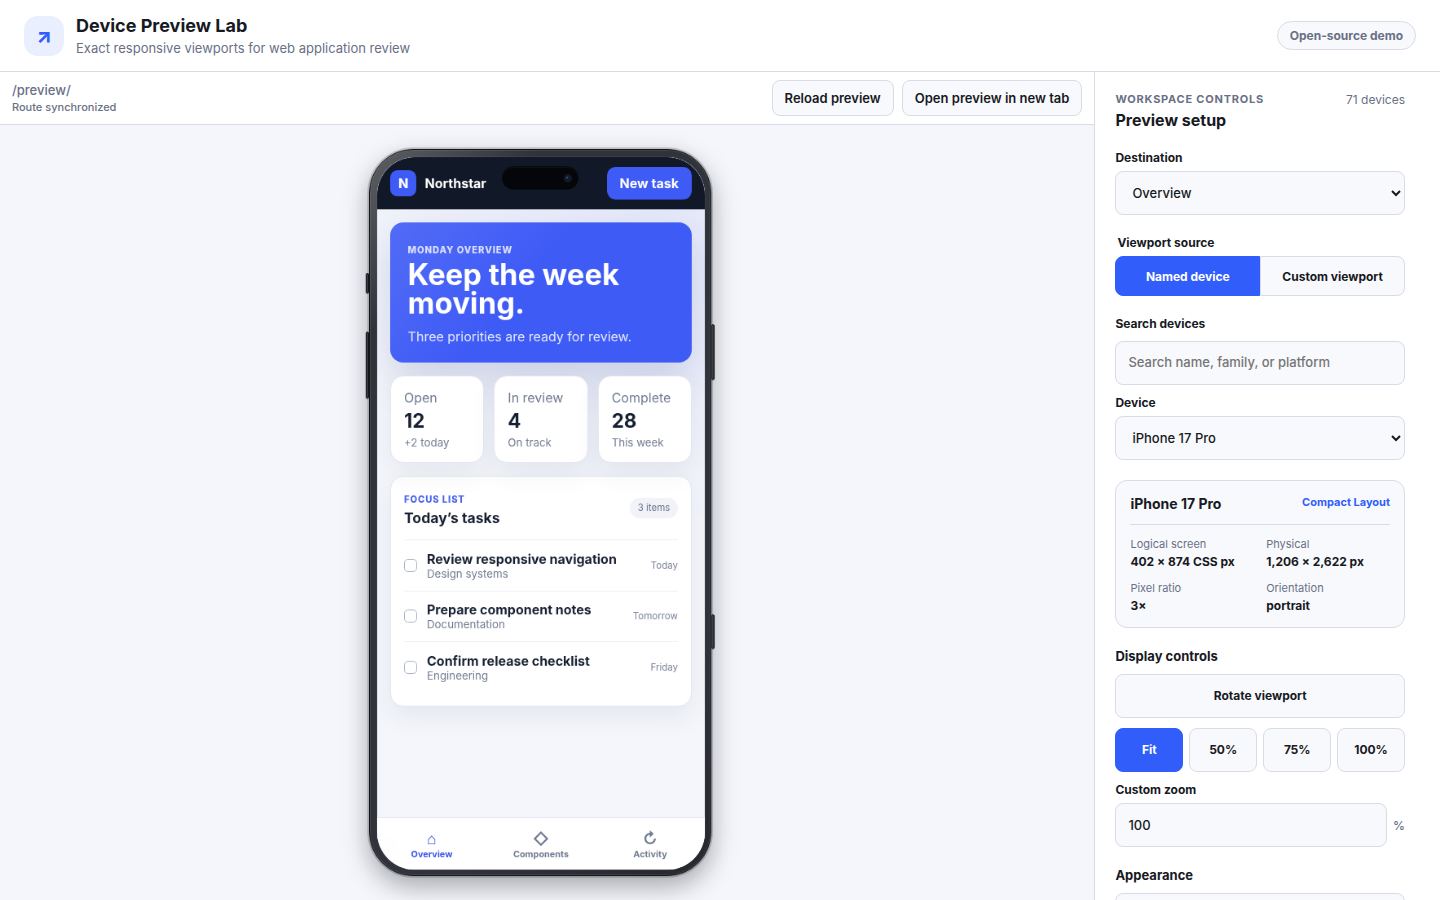
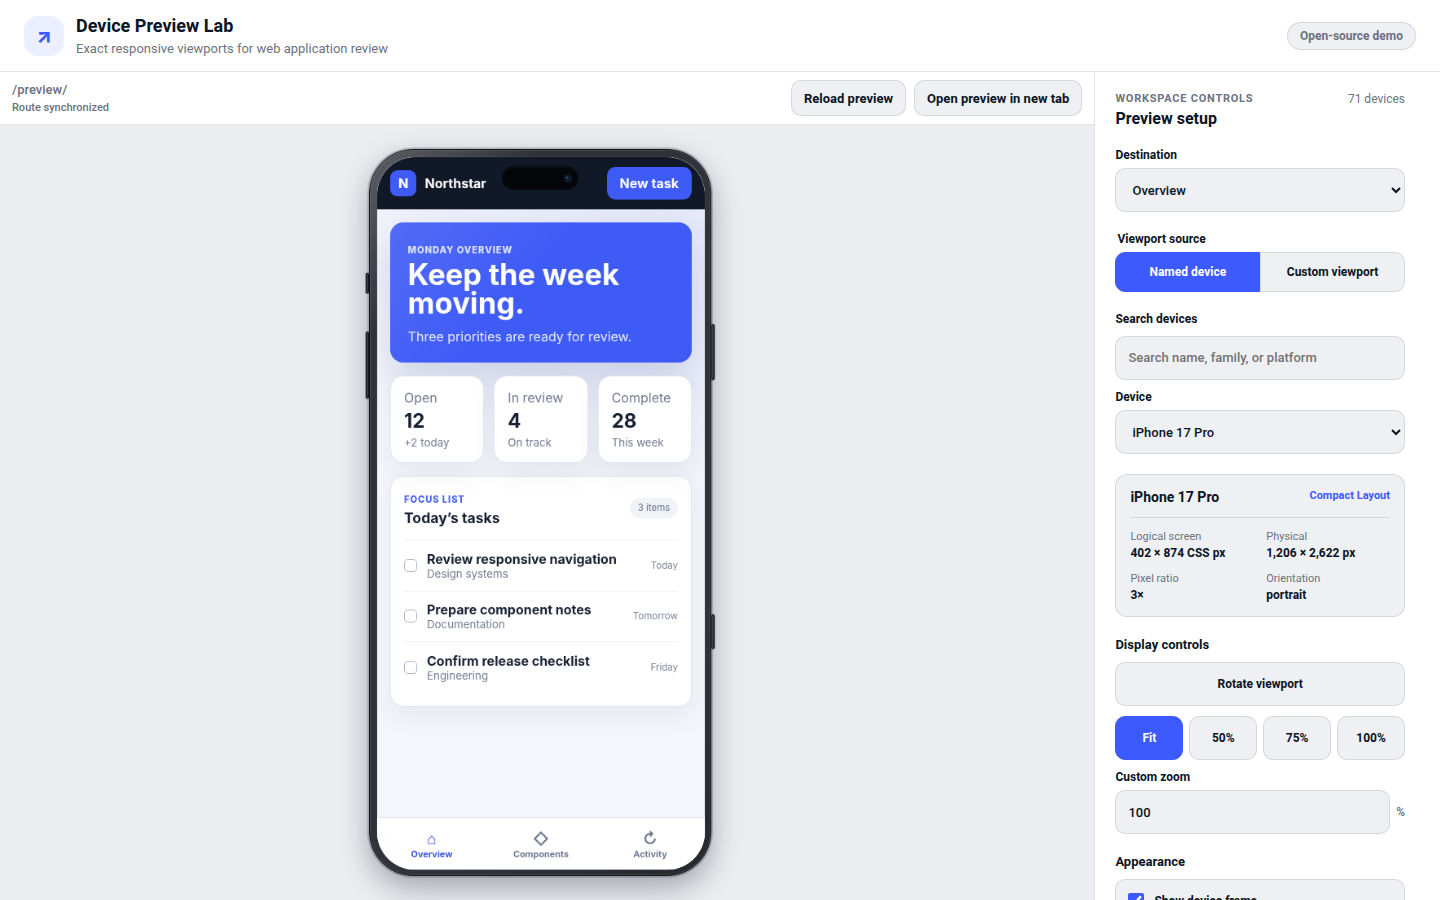
style: improve dark device frame contrast

diff --git a/src/styles/index.css b/src/styles/index.css
@@ -1,35 +1,41 @@
 :root {
   color-scheme: light dark;
-  --rdl-accent: #315efb;
+  --rdl-accent: #3d5afe;
   --rdl-accent-contrast: #ffffff;
-  --rdl-canvas: #f4f6fb;
+  --rdl-canvas: oklch(0.992 0.002 255);
+  --rdl-stage: oklch(0.946 0.004 260);
   --rdl-surface: #ffffff;
-  --rdl-surface-raised: #f8f9fc;
-  --rdl-border: #d8dce6;
-  --rdl-text: #171923;
-  --rdl-text-muted: #687086;
-  --rdl-focus: #315efb;
-  --rdl-danger: #c5353f;
-  --rdl-radius-sm: 0.5rem;
+  --rdl-surface-raised: oklch(0.955 0.005 260);
+  --rdl-border: rgb(0 0 0 / 10%);
+  --rdl-text: #0b1524;
+  --rdl-text-muted: #6b7280;
+  --rdl-focus: #0b1524;
+  --rdl-danger: #b4524b;
+  --rdl-frame-outline: rgb(11 21 36 / 20%);
+  --rdl-frame-shadow-color: rgb(16 24 40 / 34%);
+  --rdl-radius-sm: 0.625rem;
   --rdl-radius-md: 0.75rem;
   --rdl-radius-lg: 1rem;
   --rdl-font-family:
-    Inter, ui-sans-serif, system-ui, -apple-system, BlinkMacSystemFont, "Segoe UI",
-    sans-serif;
+    -apple-system, BlinkMacSystemFont, "Segoe UI", Roboto, Inter, ui-sans-serif,
+    system-ui, sans-serif;
 }
 
 [data-rdl-theme="dark"] {
   color-scheme: dark;
-  --rdl-accent: #6d8cff;
-  --rdl-accent-contrast: #07102f;
-  --rdl-canvas: #15161b;
-  --rdl-surface: #1b1d23;
-  --rdl-surface-raised: #22252d;
-  --rdl-border: #363a45;
+  --rdl-accent: #3d5afe;
+  --rdl-accent-contrast: #ffffff;
+  --rdl-canvas: oklch(0.146 0.007 280);
+  --rdl-stage: oklch(0.233 0.01 280);
+  --rdl-surface: oklch(0.175 0.008 280);
+  --rdl-surface-raised: oklch(0.204 0.009 280);
+  --rdl-border: rgb(255 255 255 / 11%);
   --rdl-text: #f4f6fb;
-  --rdl-text-muted: #a1a8ba;
-  --rdl-focus: #8ba3ff;
-  --rdl-danger: #ff7d86;
+  --rdl-text-muted: #7a8598;
+  --rdl-focus: #f4f6fb;
+  --rdl-danger: #de8b85;
+  --rdl-frame-outline: rgb(255 255 255 / 34%);
+  --rdl-frame-shadow-color: rgb(0 0 0 / 72%);
 }
 
 .rdl-preview {
@@ -121,6 +127,7 @@
   justify-content: center;
   padding: 1.5rem;
   overflow: auto;
+  background: var(--rdl-stage);
   overscroll-behavior: contain;
   scrollbar-gutter: stable;
 }
@@ -736,7 +743,7 @@
   --rdl-frame-metal: #30333a;
   --rdl-frame-metal-edge: #111217;
   --rdl-frame-highlight: rgb(255 255 255 / 22%);
-  --rdl-frame-shadow: rgb(4 6 12 / 34%);
+  --rdl-frame-shadow: var(--rdl-frame-shadow-color);
   --rdl-frame-glass: #050609;
   --rdl-frame-lens: #101b2b;
   --rdl-safe-area-color: rgb(49 94 251 / 88%);
@@ -777,8 +784,8 @@
   border-radius: var(--rdl-frame-radius);
   box-shadow:
     0 0 0 1px rgb(255 255 255 / 12%) inset,
-    0 0 0 2px rgb(0 0 0 / 18%),
-    0 12px 32px var(--rdl-frame-shadow);
+    0 0 0 2px var(--rdl-frame-outline),
+    0 14px 36px var(--rdl-frame-shadow);
 }
 
 .rdl-frame[data-rdl-frame-visible="false"] .rdl-frame__shell {
@@ -1044,7 +1051,9 @@
     var(--rdl-frame-metal);
   border: 1px solid var(--rdl-frame-metal-edge);
   border-radius: 3px;
-  box-shadow: 0 1px 1px rgb(0 0 0 / 45%);
+  box-shadow:
+    0 0 0 1px var(--rdl-frame-outline),
+    0 1px 1px rgb(0 0 0 / 45%);
 }
 
 .rdl-frame__control--mute,

diff --git a/tests/browser/demo-screenshots.spec.ts b/tests/browser/demo-screenshots.spec.ts
@@ -49,4 +49,62 @@ test.describe("@screenshots generic demo", () => {
       fullPage: true,
     });
   });
+
+  test("dark theme preserves light-theme geometry and separates the frame", async ({
+    page,
+  }) => {
+    await page.setViewportSize({ width: 1440, height: 900 });
+
+    const readThemeGeometry = async (theme: "light" | "dark") => {
+      await page.goto(`${DEMO}/?theme=${theme}&device=iphone-17-pro`);
+      const main = page.getByRole("main", { name: "Device preview lab" });
+      const stage = page.getByRole("region", { name: "Preview stage" });
+      const panel = page.getByRole("complementary", {
+        name: "Preview configuration",
+      });
+      const shell = page.locator(".rdl-frame__shell");
+
+      await expect(main).toHaveAttribute("data-rdl-theme", theme);
+      await expect(shell).toBeVisible();
+
+      return {
+        main: await main.boundingBox(),
+        stage: await stage.boundingBox(),
+        panel: await panel.boundingBox(),
+        shell: await shell.boundingBox(),
+        colors: await main.evaluate((element) => {
+          const mainStyle = getComputedStyle(element);
+          const stageElement = element.querySelector(".rdl-preview__stage");
+          const shellElement = element.querySelector(".rdl-frame__shell");
+          if (!stageElement || !shellElement) {
+            throw new Error("Expected stage and frame shell.");
+          }
+          return {
+            accent: mainStyle.getPropertyValue("--rdl-accent").trim(),
+            canvas: mainStyle.backgroundColor,
+            focus: mainStyle.getPropertyValue("--rdl-focus").trim(),
+            stage: getComputedStyle(stageElement).backgroundColor,
+            surface: mainStyle.getPropertyValue("--rdl-surface").trim(),
+            shellShadow: getComputedStyle(shellElement).boxShadow,
+          };
+        }),
+      };
+    };
+
+    const light = await readThemeGeometry("light");
+    const dark = await readThemeGeometry("dark");
+
+    expect(dark.main).toEqual(light.main);
+    expect(dark.stage).toEqual(light.stage);
+    expect(dark.panel).toEqual(light.panel);
+    expect(dark.shell).toEqual(light.shell);
+    expect(dark.colors.accent).toBe(light.colors.accent);
+    expect(light.colors.stage).not.toBe(light.colors.canvas);
+    expect(dark.colors.stage).not.toBe(dark.colors.canvas);
+    expect(dark.colors.surface).not.toBe(dark.colors.canvas);
+    expect(dark.colors.focus).not.toBe(dark.colors.accent);
+    expect(dark.colors.shellShadow).toContain(
+      "rgba(255, 255, 255, 0.34)",
+    );
+  });
 });

diff --git a/docs/theming.md b/docs/theming.md
@@ -12,6 +12,7 @@ affected:
   --rdl-accent: #6d4aff;
   --rdl-accent-contrast: #ffffff;
   --rdl-canvas: #f7f5fb;
+  --rdl-stage: #f1eef8;
   --rdl-surface: #ffffff;
   --rdl-surface-raised: #faf9fd;
   --rdl-border: #ddd8e8;
@@ -19,6 +20,8 @@ affected:
   --rdl-text-muted: #6f687d;
   --rdl-focus: #5635e7;
   --rdl-danger: #bd3348;
+  --rdl-frame-outline: rgb(33 29 43 / 20%);
+  --rdl-frame-shadow-color: rgb(33 29 43 / 32%);
   --rdl-radius-sm: 0.5rem;
   --rdl-radius-md: 0.75rem;
   --rdl-radius-lg: 1rem;
@@ -36,6 +39,12 @@ Keep focus contrast and target sizes intact when customizing. Package variables
 style the workspace and authored shell; they do not inject a product theme into
 a cross-origin target. Use the environment color-scheme scenario or the target’s
 own theme API for application content.
+
+`--rdl-stage`, `--rdl-frame-outline`, and `--rdl-frame-shadow-color` work
+together to preserve the device silhouette. Keep the stage visibly separate
+from both the frame edge and configuration surface in each theme. A dark theme
+normally needs a lighter stage and outline than its surrounding canvas; this is
+the luminance counterpart of a dark frame on the light default stage.
 
 `fullscreen` uses `100dvh` and suppresses document-level workspace overflow.
 `bounded` fills its containing block and requires the parent to provide a useful
